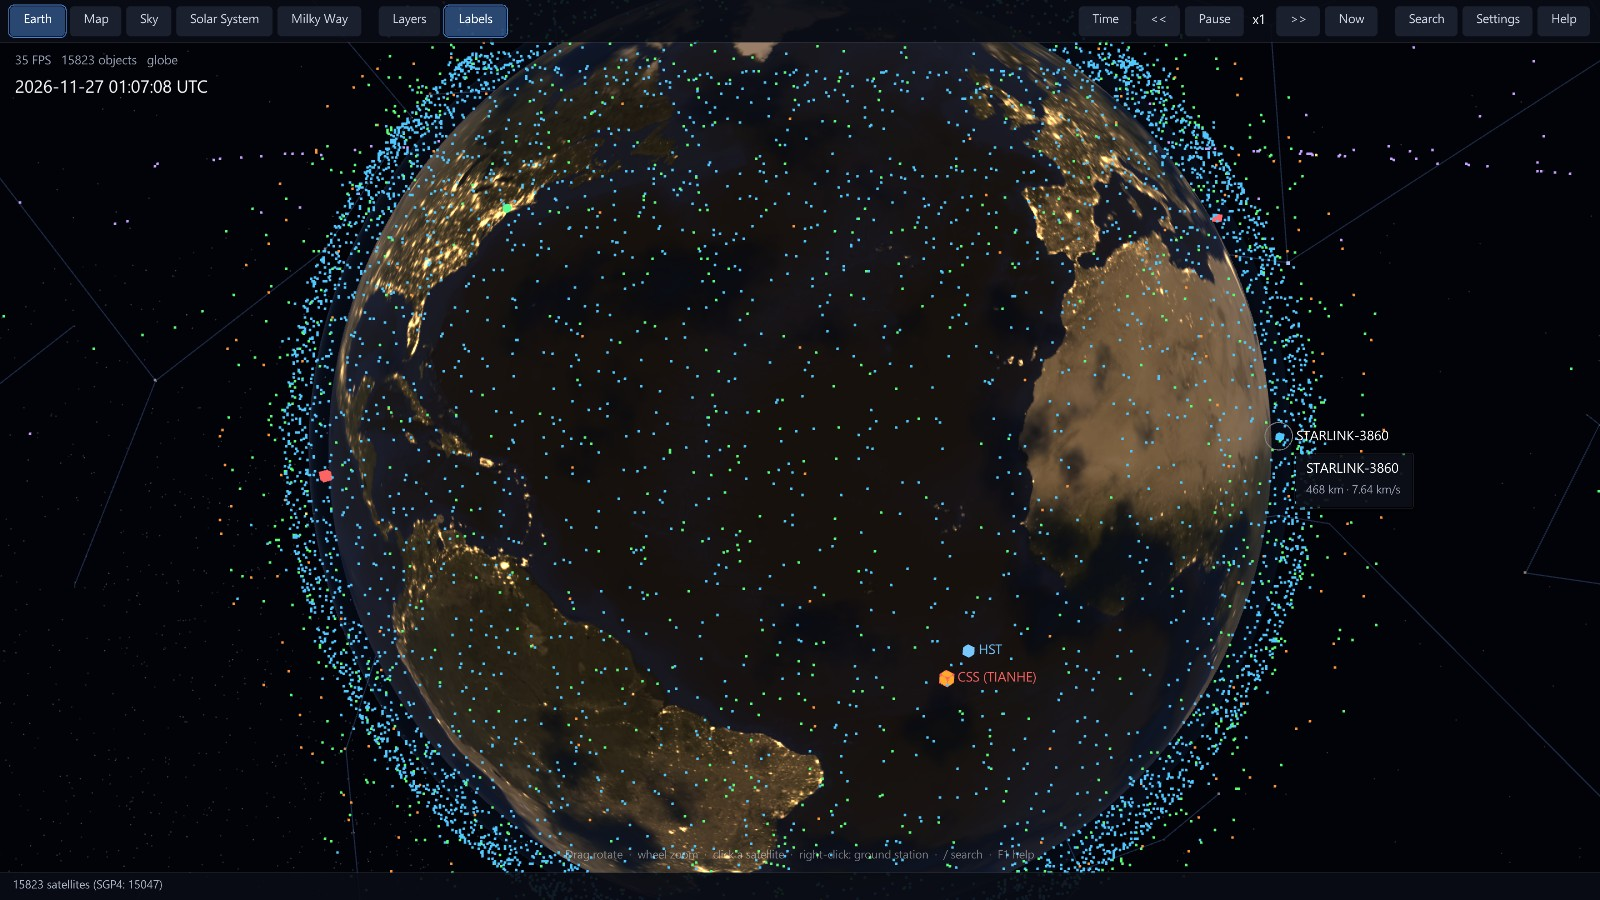
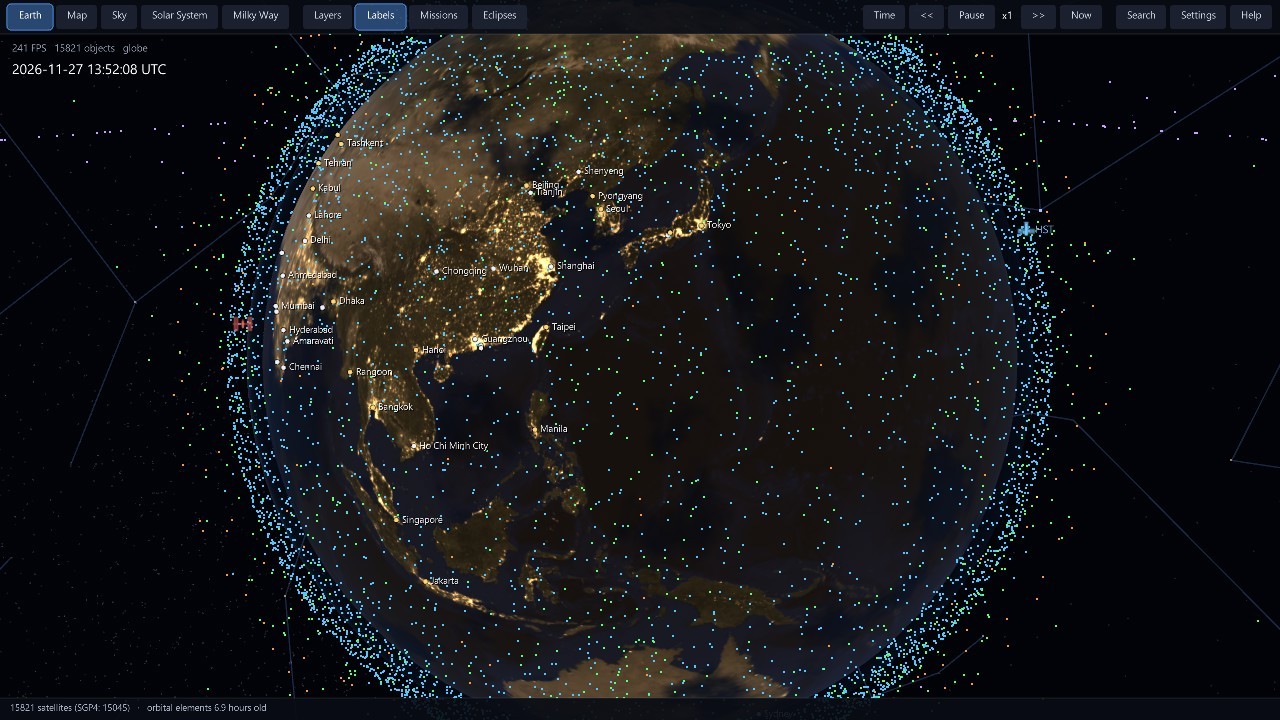
Refresh README screenshots and show unconfirmed Earth-orbit paths only when selected
New screenshots for missions, Artemis II, Starship, live layers, aircraft icons,
eclipses and the ISS model; existing screenshots recaptured with the current UI.
Predicted trajectories for unlaunched missions no longer draw on the globe unless
selected. Bump the Windows file version to 1.1.0.

diff --git a/src/main.cpp b/src/main.cpp
@@ -522,6 +522,7 @@ int main(int argc, char** argv) {
         const Mission& m = missions[mi];
         const bool sel = m.frame == MFrame::Sun ? (missionBody[mi] >= 0 && selBody == missionBody[mi]) : selMission == mi;
         if (sel) return true;
+        if (m.frame != MFrame::Sun && m.status(nowUnix()) == MStatus::Planned) return false;  // unconfirmed Earth-orbit paths only show when selected
         return opts.showMissions && missionPasses(m) && m.covers(simTime) && simTime <= missionEndEff(m);
     };
     auto currentMission = [&]() -> int {
@@ -751,6 +752,12 @@ int main(int argc, char** argv) {
     auto pick = [&](const char* needle, float d) {
         for (size_t i = 0; i < entities.size(); ++i) if (entities[i].name.find(needle) != std::string::npos) { selected = (int)i; follow = true; distGoal = dist = d; return; }
     };
+    auto faceSun = [&](bool night) {
+        const Vector3 sr = Vector3Normalize(toRender(sunDirEci(simTime)));
+        if (!night) { yaw = std::atan2(sr.x, sr.z) + 0.35f; pitch = std::asin(sr.y) * 0.5f + 0.12f; }
+        else { yaw = std::atan2(sr.x, sr.z) + 3.14159f - 0.3f; pitch = -std::asin(sr.y) * 0.5f + 0.2f; }
+        yawV = pitchV = 0;
+    };
     auto runScenario = [&]() -> bool {
         if (scenario.empty()) return false;
         struct Step { int frame; double sec; std::function<void()> fn; };
@@ -764,6 +771,49 @@ int main(int argc, char** argv) {
         auto shot = [&](int f, const char* name) { at(f, [&, name]() { pendingShot = scenarioPrefix + name + ".png"; }); };
         auto shotT = [&](double sec, const char* name) { atT(sec, [&, name]() { pendingShot = scenarioPrefix + name + ".png"; }); };
         if (steps.empty()) {
+            if (scenario == "readme") {
+                auto J = [&](double sec, const char* name) { atT(sec, [&, name]() { pendingShot = scenarioPrefix + name + ".jpg"; }); };
+                atT(1.0, [&]() { opts.showHints = false; opts.osNotify = false; setMode(Mode::Solar); opts.missionTrails = 0; solarCam.goal = solarCam.dist = 6.0; selBody = -1; });
+                J(5.0, "solar-system");
+                atT(5.5, [&]() { selectMission(idx("europaclipper"), true); solarCam.goal = solarCam.dist = 6.0; });
+                J(12.0, "missions");
+                atT(12.5, [&]() { selectMission(idx("artemis2"), true); });
+                J(20.0, "artemis");
+                atT(20.5, [&]() { opts.satLEO = opts.satMEO = opts.satGEO = opts.satHEO = false; selectMission(idx("starship"), false); simTime = missions[idx("starship")].launch + 1500.0; paused = true; distGoal = dist = 26.0f; faceGlobeTowards(0.0, -10.0); });
+                J(27.0, "starship");
+                atT(27.5, [&]() { opts.satLEO = opts.satMEO = opts.satGEO = opts.satHEO = true; selMission = -1; paused = false; simTime = nowUnix(); station = { true, 40.7, -74.0 }; ++stationVer; setMode(Mode::Sky);
+                                  simTime = utcToUnix(2026, 12, 20, 3, 0, 0); paused = true; skyAz = 3.14159f; skyEl = 0.9f; skyFov = 75.0f; });
+                J(32.0, "sky");
+                atT(32.5, [&]() { eclipsesOpen = true; });
+                J(35.0, "eclipses");
+                atT(35.5, [&]() { eclipsesOpen = false; paused = false; simTime = nowUnix(); setMode(Mode::Galaxy); });
+                J(40.0, "milky-way");
+                atT(40.5, [&]() { setMode(Mode::Globe); selected = -1; follow = false; distGoal = dist = 16.0f; faceSun(false); });
+                J(46.0, "earth");
+                atT(46.5, [&]() { faceSun(true); });
+                J(52.0, "earth-night");
+                atT(52.5, [&]() { faceGlobeTowards(25.0, -105.0); distGoal = dist = 20.0f;
+                                  quakesOn = eventsOn = auroraOn = launchesOn = true; hazards.setQuakes(true); hazards.setEvents(true); hazards.setAurora(true); launchFeed.setEnabled(true); });
+                J(68.0, "live-layers");
+                atT(68.5, [&]() { layersOpen = true; });
+                J(71.0, "layers");
+                atT(71.5, [&]() { layersOpen = false; quakesOn = eventsOn = auroraOn = launchesOn = false; hazards.setQuakes(false); hazards.setEvents(false); hazards.setAurora(false); launchFeed.setEnabled(false);
+                                  setMode(Mode::Map); adsb.setEnabled(true); mapWidthPx = screenWidth * 70.0; mapCentreU = (-73.95 + 180.0) / 360.0;
+                                  const double sn = std::sin(40.72 * DEG); mapCentreV = 0.5 - std::log((1 + sn) / (1 - sn)) / (4 * PI_D); });
+                J(92.0, "map-aircraft");
+                atT(92.5, [&]() { adsb.setEnabled(false); shipsOn = true; ais.setEnabled(true); mapWidthPx = screenWidth * 60.0; mapCentreU = (24.94 + 180.0) / 360.0;
+                                  const double sn = std::sin(60.12 * DEG); mapCentreV = 0.5 - std::log((1 + sn) / (1 - sn)) / (4 * PI_D); });
+                J(112.0, "map-ships");
+                atT(112.5, [&]() { shipsOn = false; ais.setEnabled(false); adsb.setEnabled(true); opts.radarOn = true; radarFeed.setEnabled(true); opts.cloudsOn = true; opts.windOn = true; wxProbe = true;
+                                   mapWidthPx = screenWidth * 14.0; mapCentreU = (-74.0 + 180.0) / 360.0; const double sn = std::sin(40.7 * DEG); mapCentreV = 0.5 - std::log((1 + sn) / (1 - sn)) / (4 * PI_D); });
+                J(140.0, "map-weather");
+                atT(140.5, [&]() { adsb.setEnabled(false); opts.radarOn = false; opts.cloudsOn = false; opts.windOn = false; wxProbe = false; setMode(Mode::Globe);
+                                   for (size_t i = 0; i < entities.size(); ++i) if (entities[i].name.find("ISS (ZARYA)") != std::string::npos) { selected = (int)i; break; }
+                                   for (int k = 0; k < 600 && selected >= 0; ++k) { const double t = simTime + k * 60.0; if (sunlit(entities[selected].orbit.positionAt(t), sunDirEci(t), earth.radiusKm)) { simTime = t; break; } }
+                                   paused = true; follow = true; distGoal = dist = 0.35f; });
+                J(147.0, "iss-model");
+                atT(148.0, [&]() {});
+            }
             if (scenario == "perf2") {
                 atT(0.3, [&]() { ClearWindowState(FLAG_VSYNC_HINT); opts.showHints = false; setMode(Mode::Map); mapWidthPx = screenWidth * 1.1; mapCentreU = 0.5; mapCentreV = 0.4; });
                 atT(9.5, [&]() { opts.windOn = true; });

diff --git a/README.md b/README.md
@@ -24,6 +24,10 @@ Live ship traffic (Baltic and Finnish waters) over a dark base map.
 
 ![Ships](docs/screenshots/map-ships.jpg)
 
+Aircraft and ships are drawn as type-specific silhouettes, oriented by heading.
+
+![Aircraft](docs/screenshots/map-aircraft.jpg)
+
 Switch layers, base maps and filters from the toolbar.
 
 ![Layers](docs/screenshots/layers.jpg)
@@ -33,6 +37,10 @@ Switch layers, base maps and filters from the toolbar.
 The sky from your ground station: real stars, 88 constellations, planets, the Moon's phase and every satellite above your horizon, with a pass planner for the ISS, Tiangong and Hubble.
 
 ![Sky](docs/screenshots/sky.jpg)
+
+Messier deep-sky objects are marked, and the Eclipses list (`F9`) predicts the next solar and lunar eclipses.
+
+![Eclipses](docs/screenshots/eclipses.jpg)
 
 ### Solar System
 
@@ -44,11 +52,25 @@ The planets and Pluto, Halley's comet, the asteroid belt, Jupiter's Trojans and 
 
 Real trajectories for 37 missions, drawn on the Solar System view and on the globe: Voyager and Pioneer, Galileo, Cassini at Saturn, Rosetta, MESSENGER, New Horizons, Parker, Lucy, Europa Clipper, JUICE, BepiColombo and more, plus the Apollo 11 Saturn V, Artemis I and II, JWST and a modelled Starship test flight. Missions are grouped as completed, active and planned; select one to see its status, distance, light time and speed at the simulated time, its milestones (launch, flybys, arrivals), and use **Replay** to watch the whole flight or **Previous / Next** to jump between milestones. Press `V` for the mission list.
 
+![Europa Clipper](docs/screenshots/missions.jpg)
+
+![Artemis II loop around the Moon](docs/screenshots/artemis.jpg)
+
+The Starship path is a modelled test-flight profile, not flight telemetry.
+
+![Starship](docs/screenshots/starship.jpg)
+
 Paths come from NASA/JPL Horizons, so spacecraft line up with the planets they visit. Missions that have not launched appear only once JPL has published a predicted trajectory for them.
 
 ### Live layers
 
 Earthquakes (USGS), wildfires, volcanoes and storms (NASA EONET), the aurora forecast with Kp index and solar X-ray flux (NOAA), upcoming rocket launches with countdowns and pads (Launch Library 2), and a decay watch for satellites in very low orbits. Available on the globe and the map.
+
+![Live layers](docs/screenshots/live-layers.jpg)
+
+Follow a satellite and zoom in, and it becomes a 3D model.
+
+![ISS model](docs/screenshots/iss-model.jpg)
 
 ### Milky Way
 
